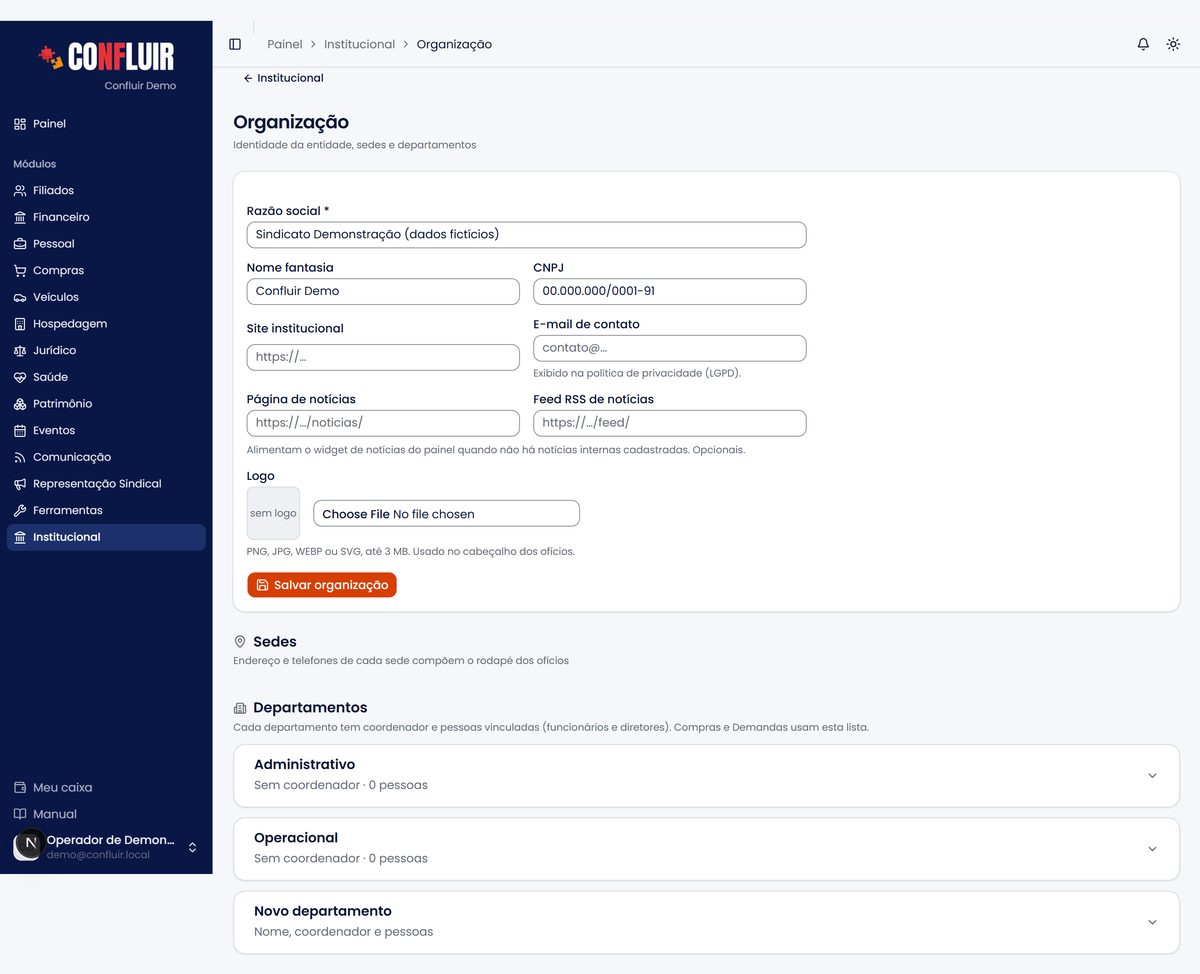
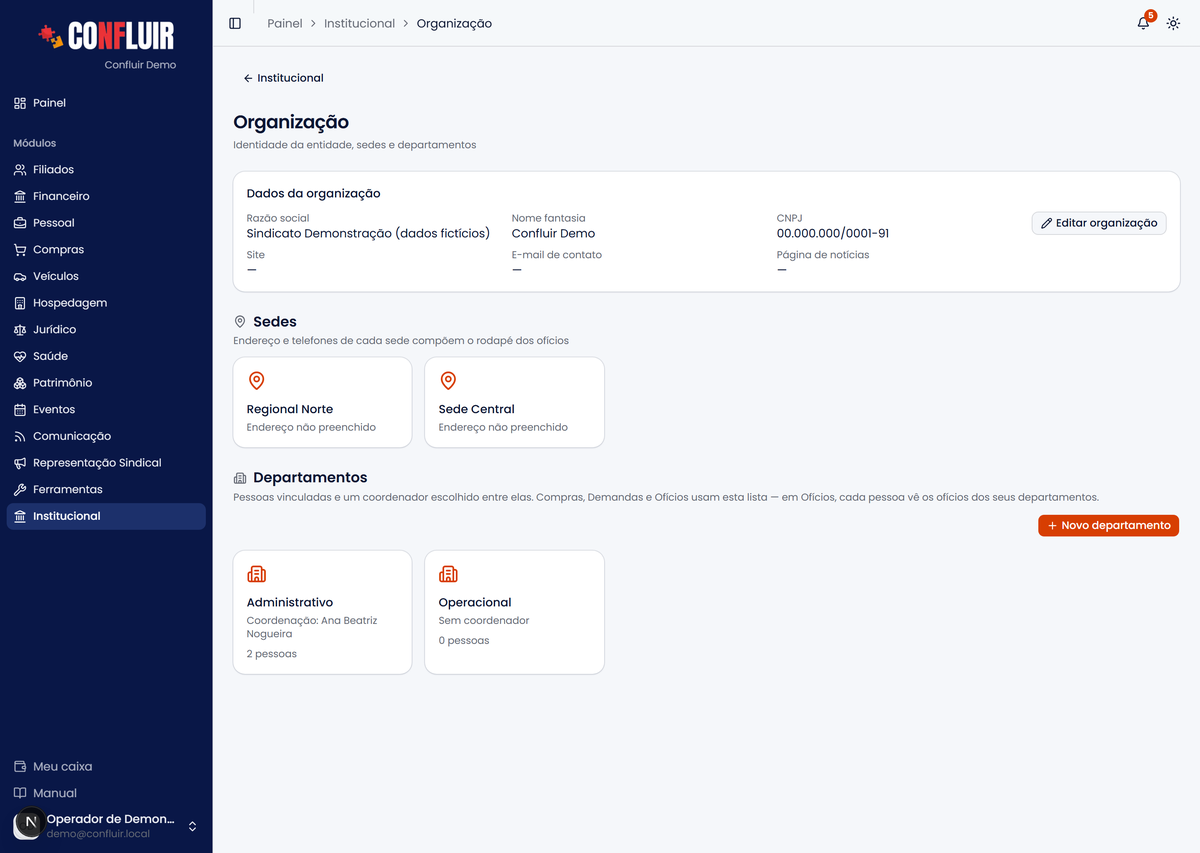
Manual: departamentos, ofícios por departamento e o novo mandato
Organização em cartões e a página do departamento, excluir como
legado, quem vê cada ofício, a página do mandato com cartões e a
situação licenciado/excluído; prints novos e refeitos.

diff --git a/src/lib/ajuda/base-conhecimento.ts b/src/lib/ajuda/base-conhecimento.ts
@@ -67,7 +67,7 @@ export const BASE_AJUDA: ArtigoBase[] = [
   {
     "area": "ferramentas",
     "slug": "oficios",
-    "texto": "Os ofícios são os documentos oficiais da entidade, com numeração por\nano, signatário da diretoria, assinatura eletrônica e geração de\nPDF com QR Code de verificação.\n\n Ofícios \n\n Emitir um ofício\n\n \n \nRascunho: \n Preencha destinatário, assunto e corpo. O signatário vem dos integrantes\n vigentes da diretoria. Há um campo opcional \"Aos cuidados\".\n \n \nEnviar para assinatura: \n No cartão Enviar para assinatura eletrônica, escolha por onde vai o\n convite — e-mail ou Telegram — confira o endereço (o sistema sugere o\n último usado, o do usuário do painel ou o da filiação) e o número (o\n próximo do ano é sugerido). Ao enviar, o ofício recebe o número, fica\n travado em \"Aguardando assinatura\" e o assinante recebe o convite.\n \n \nO assinante assina: \n Pelo botão Revisar e assinar do convite, o assinante lê o ofício\n inteiro, marca que concorda, pede um código de uso único (chega no mesmo\n canal, vale 10 minutos) e assina. Não precisa de login no Confluir.\n \n \nEmitido, com QR Code e certificado: \n Assinado, o ofício passa a Emitido sozinho. O PDF final leva o QR\n Code ao lado do cabeçalho, o carimbo \"Assinado eletronicamente em … ·\n Certificado …\" sob a assinatura e uma página final Certificado de\n assinatura eletrônica com a trilha. Quem enviou recebe e-mail e\n notificação.\n \n \n\nTipos automáticos poupam digitação: \n Alguns tipos (filiação/desfiliação) carregam a lista de pessoas a partir da\n fonte pagadora, sem você digitar nome a nome.\n \n\nOfício de liberação sindical: \n Um ofício emitido pode ser escolhido em Institucional › Diretoria para\n registrar várias liberações de uma vez. A página do ofício passa a listar\n as pessoas liberadas por ele.\n \n\n Assinatura eletrônica\n\n Quem assina não tem e-mail\n\nO Telegram resolve: se o assinante tem conta vinculada e telefone\nconfirmado em Meu perfil → Telegram, a opção Telegram aparece no cartão\nde envio, e tanto o convite quanto o código chegam pelo bot. Sem e-mail e sem\nTelegram, resta Emitir sem assinatura eletrônica e anexar depois o PDF\nassinado à mão (abaixo).\n\n Acompanhar\n\nO cartão Assinatura eletrônica do ofício mostra os três passos — enviado,\naberto pelo assinante, assinado — com data e hora, e a trilha de auditoria:\ncada envio, abertura do link, código enviado ou digitado errado, assinatura,\nrecusa e cancelamento, com endereço IP. Enquanto aguarda:\n\n- Reenviar e-mail — manda o convite de novo (lembrete) para o mesmo\n endereço.\n- Cancelar envio — o link deixa de valer e o ofício volta ao rascunho com\n o número reservado. Use para corrigir o texto ou o e-mail.\n\nQuando o assinante abre o link depois de assinado, recusado ou cancelado, a\npágina mostra o status atual em vez do passo a passo.\n\n Recusa\n\nO assinante pode recusar e dizer o motivo. O ofício volta ao rascunho, com\no número reservado; o motivo aparece no alto do cartão de envio, e quem enviou\nrecebe e-mail e notificação. Corrija e envie de novo.\n\n Conferência pelo QR Code\n\nO QR Code abre a página Verificação de assinatura (sem login), que confirma\no certificado, o número, o assunto, quem assinou, a data e hora e o resumo\nSHA-256 do conteúdo — sem mostrar o texto do ofício. Se a entidade cancelar o\nofício depois de assinado, a página avisa.\n\nPor que o conteúdo não muda depois do envio: \n No envio, o sistema calcula um resumo (SHA-256) de tudo o que o PDF mostra. Na\n assinatura, calcula de novo e só assina se for igual — o que o assinante leu é\n o que ele assinou. A assinatura eletrônica segue a Lei nº 14.063/2020; não é\n certificado digital ICP-Brasil.\n \n\n Emitir sem assinatura eletrônica\n\nPara ofício assinado à mão, abra Emitir sem assinatura eletrônica no fim do\ncartão de envio: o número é atribuído e o documento fica travado, sem QR Code\nnem certificado.\n\nEmitido assim, aparece no ofício o cartão Documento assinado à mão: anexe\nali o PDF assinado e digitalizado (até 10 MB). Ele passa a abrir pelo botão\nPDF assinado, no topo — o mesmo lugar dos ofícios do sistema anterior. Dá\npara substituir o arquivo; o anterior fica guardado no histórico.\n\n Ofícios do sistema anterior\n\nOs ofícios do sistema anterior estão na mesma lista, com número e ano. Neles o\ndocumento oficial é o arquivo assinado: quando existe, o botão PDF\nassinado aparece no topo, ao lado de Baixar PDF (que gera o PDF a partir do\ntexto). O detalhe mostra também o departamento emissor, o redator, o\n\"aos cuidados\" e as respostas recebidas, quando foram anexadas.\n\n \n\n Erros comuns\n\n- \"Não aparece o signatário que quero.\" O signatário vem dos integrantes\n vigentes da diretoria — confira o mandato em Institucional → Diretoria.\n- \"Emiti e agora não consigo editar.\" Um ofício emitido fica travado\n (é oficial). Emita um novo se precisar corrigir. Se ainda está aguardando\n assinatura, use Cancelar envio: volta ao rascunho com o mesmo número.\n- \"O assinante não recebeu o convite.\" Confira o destino na trilha, peça\n para olhar a caixa de spam e use Reenviar convite. Destino errado:\n cancele o envio e envie de novo com o endereço certo.\n- \"A opção Telegram não aparece.\" O assinante ainda não vinculou a conta ou\n não confirmou o telefone em Meu perfil → Telegram — e ele precisa ter\n usuário no painel.\n- \"O código não chegou ou expirou.\" O código vale 10 minutos; na página de\n assinatura, Enviar outro código (um por minuto). Cinco erros seguidos\n exigem um código novo.\n- \"Um ofício antigo aparece sem número.\" O sistema anterior deixou dois\n ofícios com o mesmo número no mesmo ano; aqui a numeração não se repete, então\n o segundo entrou sem número — o assunto e o arquivo continuam lá.\n- \"O número saiu fora de sequência.\" O sistema sugere o próximo do ano,\n mas confira antes de emitir — a numeração é por ano."
+    "texto": "Os ofícios são os documentos oficiais da entidade, com numeração por\nano, signatário da diretoria, assinatura eletrônica e geração de\nPDF com QR Code de verificação.\n\n Ofícios \n\n Quem vê cada ofício\n\nCada ofício pertence a um departamento, e cada pessoa vê só os ofícios dos\nseus departamentos — aqueles em que está vinculada ou é coordenadora, em\nInstitucional → Organização → Departamentos. A lista mostra, no alto, de quais\ndepartamentos você vê ofícios.\n\nQuem precisa ver todos — presidência, secretaria-geral — recebe a permissão\nOfícios — todos os departamentos, que também mostra os ofícios sem\ndepartamento (os antigos que vieram assim do sistema anterior) e libera o\nfiltro por departamento.\n\n \n\nOfício de outro departamento: \n Para quem não é do departamento, o ofício não existe: não aparece na lista, e\n o endereço direto, a impressão e o PDF respondem \"não encontrado\".\n \n\n Emitir um ofício\n\n \n \nRascunho: \n Escolha o departamento do ofício (só aparecem os seus; se você tem um só,\n ele já vem escolhido) e preencha destinatário, assunto e corpo. O signatário vem dos integrantes\n vigentes da diretoria. Há um campo opcional \"Aos cuidados\".\n \n \nEnviar para assinatura: \n No cartão Enviar para assinatura eletrônica, escolha por onde vai o\n convite — e-mail ou Telegram — confira o endereço (o sistema sugere o\n último usado, o do usuário do painel ou o da filiação) e o número (o\n próximo do ano é sugerido). Ao enviar, o ofício recebe o número, fica\n travado em \"Aguardando assinatura\" e o assinante recebe o convite.\n \n \nO assinante assina: \n Pelo botão Revisar e assinar do convite, o assinante lê o ofício\n inteiro, marca que concorda, pede um código de uso único (chega no mesmo\n canal, vale 10 minutos) e assina. Não precisa de login no Confluir.\n \n \nEmitido, com QR Code e certificado: \n Assinado, o ofício passa a Emitido sozinho. O PDF final leva o QR\n Code ao lado do cabeçalho, o carimbo \"Assinado eletronicamente em … ·\n Certificado …\" sob a assinatura e uma página final Certificado de\n assinatura eletrônica com a trilha. Quem enviou recebe e-mail e\n notificação.\n \n \n\nTipos automáticos poupam digitação: \n Alguns tipos (filiação/desfiliação) carregam a lista de pessoas a partir da\n fonte pagadora, sem você digitar nome a nome.\n \n\nOfício de liberação sindical: \n Um ofício emitido pode ser escolhido em Institucional › Diretoria para\n registrar várias liberações de uma vez. A página do ofício passa a listar\n as pessoas liberadas por ele.\n \n\n Assinatura eletrônica\n\n Quem assina não tem e-mail\n\nO Telegram resolve: se o assinante tem conta vinculada e telefone\nconfirmado em Meu perfil → Telegram, a opção Telegram aparece no cartão\nde envio, e tanto o convite quanto o código chegam pelo bot. Sem e-mail e sem\nTelegram, resta Emitir sem assinatura eletrônica e anexar depois o PDF\nassinado à mão (abaixo).\n\n Acompanhar\n\nO cartão Assinatura eletrônica do ofício mostra os três passos — enviado,\naberto pelo assinante, assinado — com data e hora, e a trilha de auditoria:\ncada envio, abertura do link, código enviado ou digitado errado, assinatura,\nrecusa e cancelamento, com endereço IP. Enquanto aguarda:\n\n- Reenviar e-mail — manda o convite de novo (lembrete) para o mesmo\n endereço.\n- Cancelar envio — o link deixa de valer e o ofício volta ao rascunho com\n o número reservado. Use para corrigir o texto ou o e-mail.\n\nQuando o assinante abre o link depois de assinado, recusado ou cancelado, a\npágina mostra o status atual em vez do passo a passo.\n\n Recusa\n\nO assinante pode recusar e dizer o motivo. O ofício volta ao rascunho, com\no número reservado; o motivo aparece no alto do cartão de envio, e quem enviou\nrecebe e-mail e notificação. Corrija e envie de novo.\n\n Conferência pelo QR Code\n\nO QR Code abre a página Verificação de assinatura (sem login), que confirma\no certificado, o número, o assunto, quem assinou, a data e hora e o resumo\nSHA-256 do conteúdo — sem mostrar o texto do ofício. Se a entidade cancelar o\nofício depois de assinado, a página avisa.\n\nPor que o conteúdo não muda depois do envio: \n No envio, o sistema calcula um resumo (SHA-256) de tudo o que o PDF mostra. Na\n assinatura, calcula de novo e só assina se for igual — o que o assinante leu é\n o que ele assinou. A assinatura eletrônica segue a Lei nº 14.063/2020; não é\n certificado digital ICP-Brasil.\n \n\n Emitir sem assinatura eletrônica\n\nPara ofício assinado à mão, abra Emitir sem assinatura eletrônica no fim do\ncartão de envio: o número é atribuído e o documento fica travado, sem QR Code\nnem certificado.\n\nEmitido assim, aparece no ofício o cartão Documento assinado à mão: anexe\nali o PDF assinado e digitalizado (até 10 MB). Ele passa a abrir pelo botão\nPDF assinado, no topo — o mesmo lugar dos ofícios do sistema anterior. Dá\npara substituir o arquivo; o anterior fica guardado no histórico.\n\n Ofícios do sistema anterior\n\nOs ofícios do sistema anterior estão na mesma lista, com número e ano. Neles o\ndocumento oficial é o arquivo assinado: quando existe, o botão PDF\nassinado aparece no topo, ao lado de Baixar PDF (que gera o PDF a partir do\ntexto). O detalhe mostra também o departamento emissor, o redator, o\n\"aos cuidados\" e as respostas recebidas, quando foram anexadas.\n\n \n\n Erros comuns\n\n- \"A lista de ofícios está vazia.\" Você não está vinculado a nenhum\n departamento — peça o vínculo em Institucional → Organização → Departamentos.\n- \"Não acho um ofício que sei que existe.\" Ele é de outro departamento (ou\n está sem departamento). Peça a quem tem Ofícios — todos os departamentos.\n- \"Não aparece o signatário que quero.\" O signatário vem dos integrantes\n vigentes da diretoria — confira o mandato em Institucional → Diretoria.\n- \"Emiti e agora não consigo editar.\" Um ofício emitido fica travado\n (é oficial). Emita um novo se precisar corrigir. Se ainda está aguardando\n assinatura, use Cancelar envio: volta ao rascunho com o mesmo número.\n- \"O assinante não recebeu o convite.\" Confira o destino na trilha, peça\n para olhar a caixa de spam e use Reenviar convite. Destino errado:\n cancele o envio e envie de novo com o endereço certo.\n- \"A opção Telegram não aparece.\" O assinante ainda não vinculou a conta ou\n não confirmou o telefone em Meu perfil → Telegram — e ele precisa ter\n usuário no painel.\n- \"O código não chegou ou expirou.\" O código vale 10 minutos; na página de\n assinatura, Enviar outro código (um por minuto). Cinco erros seguidos\n exigem um código novo.\n- \"Um ofício antigo aparece sem número.\" O sistema anterior deixou dois\n ofícios com o mesmo número no mesmo ano; aqui a numeração não se repete, então\n o segundo entrou sem número — o assunto e o arquivo continuam lá.\n- \"O número saiu fora de sequência.\" O sistema sugere o próximo do ano,\n mas confira antes de emitir — a numeração é por ano."
   },
   {
     "area": "ferramentas",
@@ -217,12 +217,12 @@ export const BASE_AJUDA: ArtigoBase[] = [
   {
     "area": "institucional",
     "slug": "diretoria",
-    "texto": "A Diretoria organiza os mandatos e os integrantes da entidade — e é dela\nque saem os signatários dos ofícios. Ela tem duas abas: Mandatos e\nInstâncias.\n\n Mandatos e integrantes \n\n Mandatos e integrantes\n\n \n \nMandato: \n Um período de gestão, com início e fim. Os integrantes são vinculados ao\n mandato, em seus cargos.\n \n \nFicha do integrante: \n Cada integrante tem uma ficha: dados pessoais, endereço, vínculo, dados\n bancários, acessibilidade, contato de emergência e CNH — o que já está na\n filiação ou em Condutores aparece de lá.\n \n \n\n A ficha reflete os outros cadastros\n\nO que já existe em outro cadastro aparece na ficha — não se digita de novo.\nO que só o institucional tem continua nele.\n\n| Na ficha | De onde vem |\n|---|---|\n| Nascimento, e-mail, telefone, endereço, dados bancários, contato de emergência | Cadastro de filiação (selo Da filiação) |\n| Vínculos empregatícios (empresa, matrícula, lotação) | Cadastro de filiação, só para consulta |\n| CNH (número, categoria, validade, arquivo) | Veículos › Condutores, só para consulta |\n| Tamanho de camisa, tipo sanguíneo, acessibilidade | Só do institucional |\n\n \n\nAlterar na ficha altera a filiação: \n Para quem é filiado, mudar telefone, endereço, dados bancários ou o contato de\n emergência na ficha grava no cadastro de filiação — o mesmo dado passa a\n valer no perfil do filiado, nos reembolsos e no portal. A alteração fica\n registrada no prontuário da filiação. O contato de emergência editável é o\n primeiro da filiação; os demais continuam lá.\n \n\nA filiação é a vinculada ao integrante ou, sem vínculo, a do mesmo CPF. Um\nintegrante sem filiação (convidado, dirigente de outra base) tem a ficha\ncompleta guardada no institucional, como antes. A CNH aparece para quem está no\ncadastro de condutores — é lá que ela é cadastrada e atualizada.\n\n Instâncias\n\nInstâncias são as entidades em que o sindicato tem assento — conselhos,\ncomissões, fóruns. Elas são cadastradas fora do mandato, na aba\nInstâncias; os diretores são vinculados a elas dentro do mandato.\n\n \n \nCadastre a instância: \n Na aba Instâncias, em Nova instância: nome e descrição.\n \n \nVincule o diretor no mandato: \n Abra o mandato e, na seção Instâncias, use Vincular diretor a uma\n instância: a instância, o diretor, o cargo nela, o período e o documento\n de posse.\n \n \nVeja a tag: \n Na lista de integrantes do mandato, quem tem vínculo em andamento ganha uma\n tag com o nome da instância. A página da instância lista todos os\n vínculos, de todos os mandatos, só para consulta.\n \n \n\n \n\n Liberações sindicais\n\nEm Registrar liberação, dentro do mandato, uma chave escolhe o jeito de lançar:\n\n- Individual — um diretor, o empregador, o tipo (permanente ou pontual), a\n vigência e o documento que oficializou.\n- Várias liberações — para quando um ofício libera várias pessoas, o\n caso mais comum.\n\n \n \nEscolha o ofício: \n O ofício é o da área de Ofícios — emita-o lá primeiro. O empregador vem\n preenchido com o destinatário do ofício, quando ele é uma fonte pagadora.\n \n \nAdicione as pessoas: \n Para cada pessoa, a data de saída e a data de retorno. A pessoa pode\n ser um diretor do mandato ou um trabalhador da base — escolha\n Trabalhador da base e busque o filiado; ele não precisa ser diretor. Sem\n data de retorno, a liberação fica permanente.\n \n \nRegistre: \n Uma liberação por pessoa é criada de uma vez, todas ligadas ao mesmo\n ofício. Na tabela, o trabalhador da base aparece com a marca base, e a\n coluna Documento leva ao ofício — que, por sua vez, lista as liberações\n registradas com ele.\n \n \n\n \n\nNo Meu perfil do diretor, a liberação aparece como em vigor, prevista\n(ainda não começou) ou encerrada.\n\n Signatários dos ofícios\n\nOs integrantes vigentes de um mandato são as pessoas oferecidas como\nassinantes ao emitir um ofício — por isso manter a diretoria em dia reflete\ndireto nos documentos.\n\n Atas de reunião\n\nAs atas ficam ancoradas no mandato: tipo, pauta, deliberações, presentes e o\nPDF da ata. Há também uma visão geral das atas na área própria.\n\nSuba o PDF e a IA preenche a ata: \n Em Nova ata, o campo Ata em PDF fica no alto. Ao escolher o arquivo, a\n IA lê a ata — digitada ou escaneada — e preenche tipo, data, título, hora,\n local, pauta, deliberações, presentes e observações. Confira antes de\n salvar. Numa ata já registrada, só os campos vazios são preenchidos.\n \n\n \n\n \n\n Erros comuns\n\n- \"O signatário não aparece ao emitir um ofício.\" Só os integrantes\n vigentes do mandato são oferecidos como assinantes — confira o período do\n mandato e o cargo do integrante.\n- \"A ata não aparece.\" As atas ficam ancoradas no mandato; abra o\n mandato para incluir ou ver a ata (há também a visão geral na área própria).\n- \"Mudei o telefone na ficha e mudou no filiado.\" É o esperado: para quem\n é filiado, a ficha e a filiação são o mesmo cadastro.\n- \"A CNH não aparece na ficha.\" A pessoa não está em Veículos › Condutores\n (ou não tem conta de usuário com o mesmo CPF). Cadastre lá.\n- \"Não acho o ofício para vincular as liberações.\" Só aparecem ofícios\n emitidos na área de Ofícios. Emita-o lá e volte.\n- \"Não consigo vincular o diretor à instância na página dela.\" O vínculo\n é lançado dentro do mandato, na seção Instâncias; a página da instância é\n só consulta.\n- \"O integrante saiu da diretoria mas continua aparecendo.\" Encerre o\n mandato ou o vínculo do integrante para tirá-lo dos vigentes."
+    "texto": "A Diretoria organiza os mandatos e os integrantes da entidade — e é dela\nque saem os signatários dos ofícios. Ela tem duas abas: Mandatos e\nInstâncias.\n\n Mandatos e integrantes \n\n Mandatos e integrantes\n\n \n \nMandato: \n Um período de gestão, com início e fim. A página do mandato mostra os dados\n (lápis para editar), três cartões — Instâncias, Liberações sindicais e\n Atas de reunião, cada um com o total e a própria página — e os\n integrantes por grupo.\n \n \nA linha de cada integrante: \n Mostra o cargo, o departamento da pessoa em Organização (ou sem\n departamento), as instâncias em que representa a entidade, o selo\n Liberado quando há liberação vigente e a situação: licenciado ou\n excluído, com a data e o motivo.\n \n \nFicha do integrante: \n Cada integrante tem uma ficha: dados pessoais, endereço, vínculo, dados\n bancários, acessibilidade, contato de emergência e CNH — o que já está na\n filiação ou em Condutores aparece de lá.\n \n \n\n Licenciado ou excluído\n\nNo lápis do integrante, Situação no mandato: Em exercício (o padrão),\nLicenciado ou Excluído, com desde e motivo. A pessoa continua na\nlista do mandato, marcada — o excluído aparece riscado. Licenciado e excluído\nnão assinam ofícios: saem da lista de assinantes, mesmo com Assina ofícios\nmarcado.\n\n A ficha reflete os outros cadastros\n\nO que já existe em outro cadastro aparece na ficha — não se digita de novo.\nO que só o institucional tem continua nele.\n\n| Na ficha | De onde vem |\n|---|---|\n| Nascimento, e-mail, telefone, endereço, dados bancários, contato de emergência | Cadastro de filiação (selo Da filiação) |\n| Vínculos empregatícios (empresa, matrícula, lotação) | Cadastro de filiação, só para consulta |\n| CNH (número, categoria, validade, arquivo) | Veículos › Condutores, só para consulta |\n| Tamanho de camisa, tipo sanguíneo, acessibilidade | Só do institucional |\n\n \n\nAlterar na ficha altera a filiação: \n Para quem é filiado, mudar telefone, endereço, dados bancários ou o contato de\n emergência na ficha grava no cadastro de filiação — o mesmo dado passa a\n valer no perfil do filiado, nos reembolsos e no portal. A alteração fica\n registrada no prontuário da filiação. O contato de emergência editável é o\n primeiro da filiação; os demais continuam lá.\n \n\nA filiação é a vinculada ao integrante ou, sem vínculo, a do mesmo CPF. Um\nintegrante sem filiação (convidado, dirigente de outra base) tem a ficha\ncompleta guardada no institucional, como antes. A CNH aparece para quem está no\ncadastro de condutores — é lá que ela é cadastrada e atualizada.\n\n Instâncias\n\nInstâncias são as entidades em que o sindicato tem assento — conselhos,\ncomissões, fóruns. Elas são cadastradas fora do mandato, na aba\nInstâncias; os diretores são vinculados a elas dentro do mandato.\n\n \n \nCadastre a instância: \n Na aba Instâncias, em Nova instância: nome e descrição.\n \n \nVincule o diretor no mandato: \n Abra o mandato e, no cartão Instâncias, use Vincular diretor a uma\n instância: a instância, o diretor, o cargo nela, o período e o documento\n de posse.\n \n \nVeja a tag: \n Na lista de integrantes do mandato, quem tem vínculo em andamento ganha uma\n tag com o nome da instância. A página da instância lista todos os\n vínculos, de todos os mandatos, só para consulta.\n \n \n\n \n\n Liberações sindicais\n\nNo mandato, abra o cartão Liberações sindicais. Em Registrar liberação,\numa chave escolhe o jeito de lançar:\n\n- Individual — um diretor, o empregador, o tipo (permanente ou pontual), a\n vigência e o documento que oficializou.\n- Várias liberações — para quando um ofício libera várias pessoas, o\n caso mais comum.\n\n \n \nEscolha o ofício: \n O ofício é o da área de Ofícios — emita-o lá primeiro. O empregador vem\n preenchido com o destinatário do ofício, quando ele é uma fonte pagadora.\n \n \nAdicione as pessoas: \n Para cada pessoa, a data de saída e a data de retorno. A pessoa pode\n ser um diretor do mandato ou um trabalhador da base — escolha\n Trabalhador da base e busque o filiado; ele não precisa ser diretor. Sem\n data de retorno, a liberação fica permanente.\n \n \nRegistre: \n Uma liberação por pessoa é criada de uma vez, todas ligadas ao mesmo\n ofício. Na tabela, o trabalhador da base aparece com a marca base, e a\n coluna Documento leva ao ofício — que, por sua vez, lista as liberações\n registradas com ele.\n \n \n\n \n\nNo Meu perfil do diretor, a liberação aparece como em vigor, prevista\n(ainda não começou) ou encerrada.\n\n Signatários dos ofícios\n\nOs integrantes vigentes de um mandato são as pessoas oferecidas como\nassinantes ao emitir um ofício — por isso manter a diretoria em dia reflete\ndireto nos documentos.\n\n Atas de reunião\n\nAs atas ficam ancoradas no mandato — no cartão Atas de reunião — com tipo,\npauta, deliberações, presentes e o PDF da ata. Há também uma visão geral das\natas na área própria.\n\nSuba o PDF e a IA preenche a ata: \n Em Nova ata, o campo Ata em PDF fica no alto. Ao escolher o arquivo, a\n IA lê a ata — digitada ou escaneada — e preenche tipo, data, título, hora,\n local, pauta, deliberações, presentes e observações. Confira antes de\n salvar. Numa ata já registrada, só os campos vazios são preenchidos.\n \n\n \n\n \n\n Erros comuns\n\n- \"O signatário não aparece ao emitir um ofício.\" Só os integrantes\n vigentes do mandato são oferecidos como assinantes — confira o período do\n mandato e o cargo do integrante.\n- \"A ata não aparece.\" As atas ficam ancoradas no mandato; abra o\n cartão Atas de reunião do mandato (há também a visão geral na área própria).\n- \"O integrante aparece sem departamento.\" Vincule a pessoa em\n Institucional → Organização → Departamentos (ela precisa ter conta de usuário).\n- \"Uma diretora licenciada ainda aparece como assinante.\" Confira a\n Situação no mandato no lápis dela — licenciado e excluído saem dos assinantes.\n- \"Mudei o telefone na ficha e mudou no filiado.\" É o esperado: para quem\n é filiado, a ficha e a filiação são o mesmo cadastro.\n- \"A CNH não aparece na ficha.\" A pessoa não está em Veículos › Condutores\n (ou não tem conta de usuário com o mesmo CPF). Cadastre lá.\n- \"Não acho o ofício para vincular as liberações.\" Só aparecem ofícios\n emitidos na área de Ofícios. Emita-o lá e volte.\n- \"Não consigo vincular o diretor à instância na página dela.\" O vínculo\n é lançado dentro do mandato, no cartão Instâncias; a página da instância é\n só consulta.\n- \"O integrante saiu da diretoria mas continua aparecendo.\" Encerre o\n mandato ou o vínculo do integrante para tirá-lo dos vigentes."
   },
   {
     "area": "institucional",
     "slug": "index",
-    "texto": "O módulo Institucional cuida da entidade em si: a organização (identidade e\nsedes), a diretoria, as atas de reunião, o registro sindical no MTE, os e-mails\ninstitucionais, os usuários do painel e as ajudas institucionais.\n\n Organização (identidade e sedes) \n\n As áreas do módulo\n\n \n \nOrganização: \n Razão social, CNPJ, logo e os endereços das sedes — dados que aparecem em\n ofícios, fichas e rodapés. Também os departamentos: nome, coordenador(a)\n e as pessoas vinculadas (funcionários ativos e diretores do mandato vigente\n com conta de usuário). Compras e Demandas usam essa lista; um departamento\n em uso nelas não pode ser excluído.\n \n \nDiretoria e Atas: \n Os mandatos e integrantes da diretoria (base dos signatários de ofícios) e\n as atas das reuniões da entidade.\n \n \nRegistro sindical (MTE) e E-mails: \n Os registros no Ministério do Trabalho e os endereços institucionais com o\n responsável por cada um.\n \n \nUsuários e Ajudas institucionais: \n Quem acessa o painel e o que cada um pode ver/editar; e os apoios da\n entidade a organizações apoiadas.\n \n \n\n \n\n \n\n Erros comuns\n\n- \"Vejo uma área e não as outras.\" Cada uma tem permissão própria\n (Organização, Mandatos e integrantes, Ajudas, Custeio, Usuários).\n- \"Mudei o logo/razão e não refletiu no ofício.\" Os dados da Organização\n (logo, razão social, sedes) alimentam ofícios, fichas e rodapés — confira o\n cadastro em Organização."
+    "texto": "O módulo Institucional cuida da entidade em si: a organização (identidade e\nsedes), a diretoria, as atas de reunião, o registro sindical no MTE, os e-mails\ninstitucionais, os usuários do painel e as ajudas institucionais.\n\n Organização (identidade e sedes) \n\n As áreas do módulo\n\n \n \nOrganização: \n Os dados da organização (razão social, CNPJ, logo, site) aparecem para\n leitura, com o botão Editar organização. As sedes e os\n departamentos ficam em cartões; cada cartão abre a própria página, com o\n botão de editar. Esses dados aparecem em ofícios, fichas e rodapés.\n \n \nDiretoria e Atas: \n Os mandatos e integrantes da diretoria (base dos signatários de ofícios) e\n as atas das reuniões da entidade.\n \n \nRegistro sindical (MTE) e E-mails: \n Os registros no Ministério do Trabalho e os endereços institucionais com o\n responsável por cada um.\n \n \nUsuários e Ajudas institucionais: \n Quem acessa o painel e o que cada um pode ver/editar; e os apoios da\n entidade a organizações apoiadas.\n \n \n\n \n\n Departamentos\n\nEm Organização, os departamentos aparecem em cartões, com a coordenação e o\nnúmero de pessoas. Novo departamento abre o formulário; ao criar, você cai\nna página do departamento. Clicando no cartão, a página mostra as pessoas\nvinculadas — a coordenação primeiro — e o botão Editar departamento.\n\nCada departamento tem as pessoas vinculadas (funcionários ativos e\ndiretores do mandato vigente com conta de usuário) e o coordenador(a), que é\numa dessas pessoas: marque as pessoas primeiro — só as marcadas aparecem\ncomo opção de coordenador.\n\nCompras, Demandas e Ofícios usam essa lista. Em Ofícios, cada pessoa vê os\nofícios dos seus departamentos (como integrante ou coordenadora) — por isso\nmantenha as pessoas vinculadas em dia.\n\n \n\n \n\nExcluir é tornar legado: \n Um departamento não é apagado: compras, ofícios e contas continuam apontando\n para ele. Para excluir, desmarque todas as pessoas, deixe sem coordenador e\n salve (em Editar departamento); depois use Excluir (tornar legado). O legado sai das listas de\n escolha (nova compra, ofício, contratos…), continua nos registros antigos e\n fica em Departamentos legados, onde pode ser reativado.\n \n\n Erros comuns\n\n- \"Vejo uma área e não as outras.\" Cada uma tem permissão própria\n (Organização, Mandatos e integrantes, Ajudas, Custeio, Usuários).\n- \"O coordenador que quero não aparece.\" Ele precisa estar entre as\n pessoas marcadas do departamento — marque-o na lista primeiro.\n- \"Excluir (tornar legado) está bloqueado.\" Ainda há pessoas ou coordenador\n no departamento: desmarque todos, deixe sem coordenador e salve.\n- \"Mudei o logo/razão e não refletiu no ofício.\" Os dados da Organização\n (logo, razão social, sedes) alimentam ofícios, fichas e rodapés — confira o\n cadastro em Organização."
   },
   {
     "area": "institucional",
